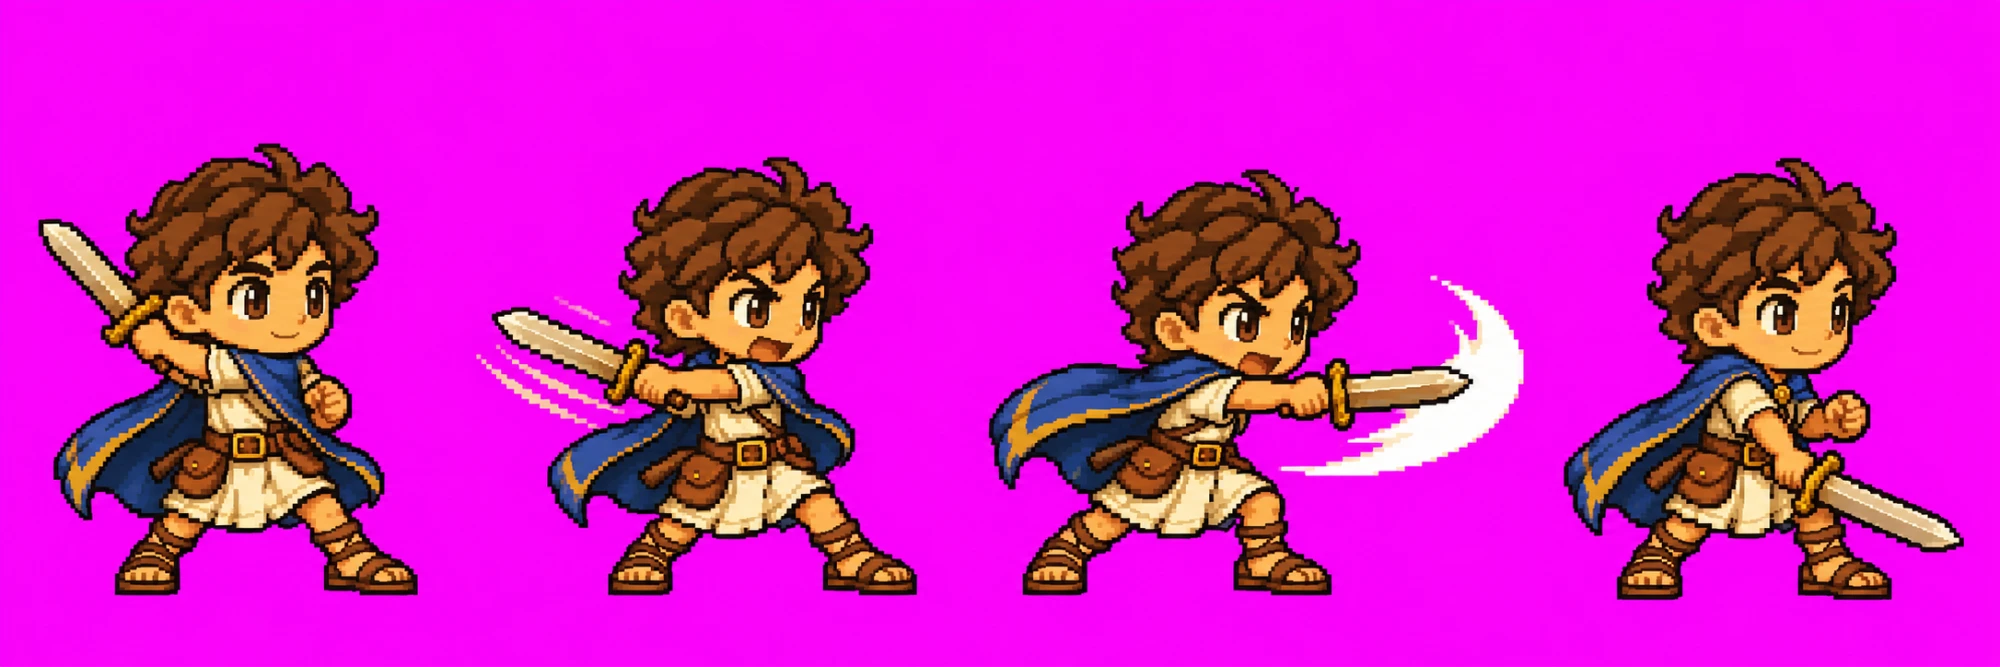
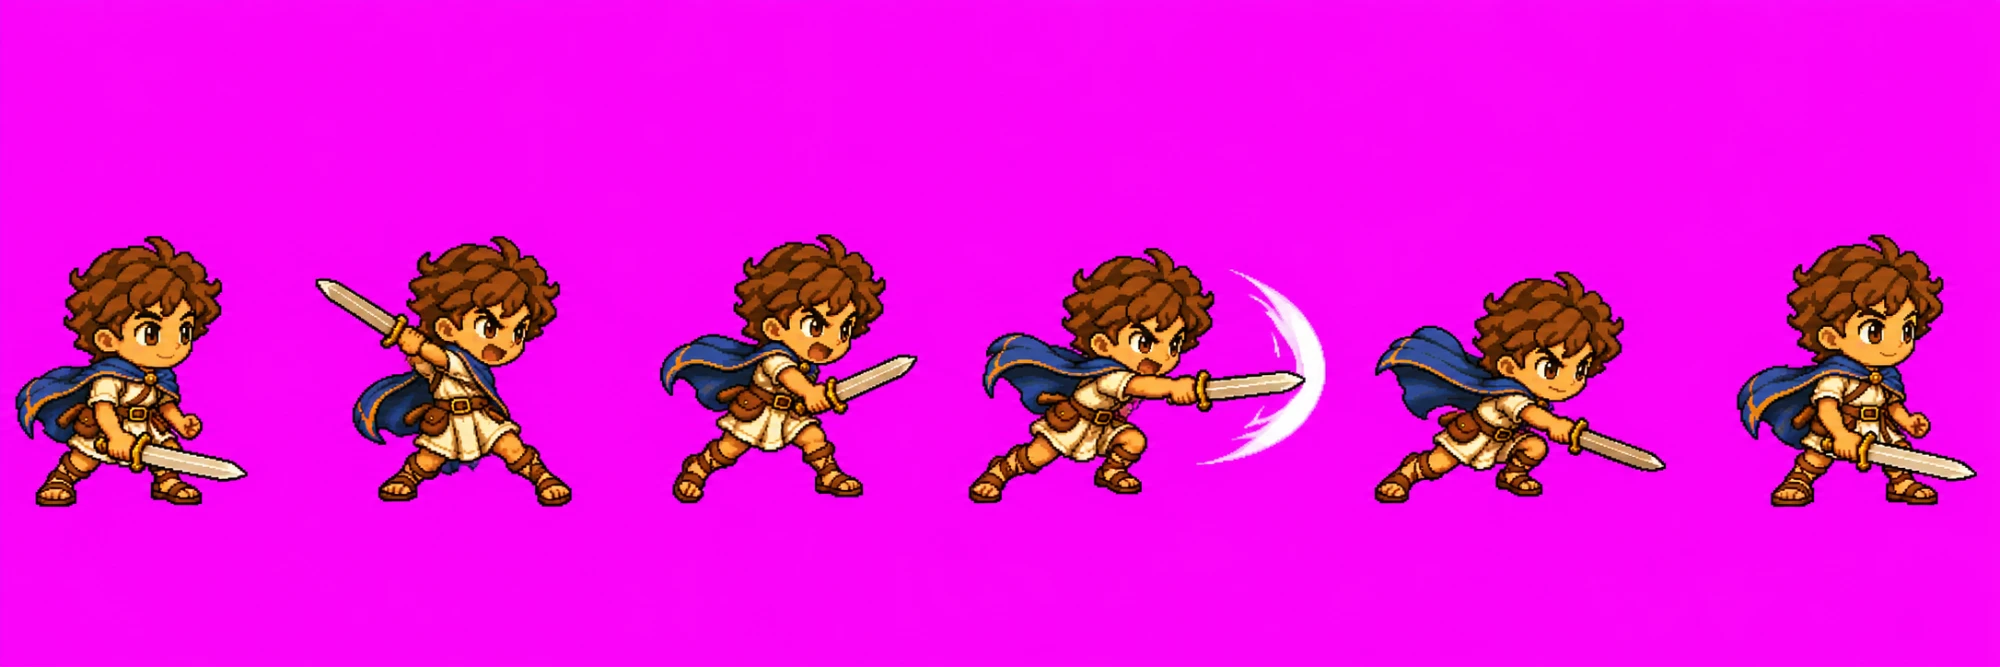
Hero: 6-frame sword slash with anticipation and follow-through
Replaces the 4-frame slash strip with a new AI-drafted 6-frame strip
(ready, anticipation, swing, impact, follow-through, recovery); needs a
human art review. The anticipation frame is held and the swing is quick.
swing/impact events move to 260/320 ms. punch now uses the new swing
frame.

diff --git a/src/core/anim/heroClips.ts b/src/core/anim/heroClips.ts
@@ -34,7 +34,7 @@ export const HERO_CLIPS = {
   ),
   punch: frameClip(
     'punch',
-    [f('slash_0', 110), f('slash_1', 80), f('thrust', 150), f('idle_0', 80)],
+    [f('slash_0', 110), f('slash_2', 80), f('thrust', 150), f('idle_0', 80)],
     {
       events: [
         { at: 110, name: 'swing' },
@@ -42,13 +42,21 @@ export const HERO_CLIPS = {
       ],
     },
   ),
+  // Ready, anticipation (held), swing (fast), impact, follow-through, recovery.
   slash: frameClip(
     'slash',
-    [f('slash_0', 140), f('slash_1', 90), f('slash_2', 170), f('slash_3', 140)],
+    [
+      f('slash_0', 80),
+      f('slash_1', 180),
+      f('slash_2', 60),
+      f('slash_3', 140),
+      f('slash_4', 110),
+      f('slash_5', 120),
+    ],
     {
       events: [
-        { at: 140, name: 'swing' },
-        { at: 230, name: 'impact' },
+        { at: 260, name: 'swing' },
+        { at: 320, name: 'impact' },
       ],
     },
   ),

diff --git a/src/core/anim/heroSheet.ts b/src/core/anim/heroSheet.ts
@@ -2,9 +2,9 @@
 
 /** Hero sprite sheet layout: equal cells, row-major, feet of every frame at (originX, originY). */
 export const HERO_SHEET = {
-  frameWidth: 98,
+  frameWidth: 136,
   frameHeight: 93,
-  originX: 49,
+  originX: 68,
   originY: 92,
   /** Height of the standing hero in native pixels. */
   standingHeight: 64,
@@ -25,16 +25,18 @@ export const HERO_FRAMES = {
   slash_1: 11,
   slash_2: 12,
   slash_3: 13,
-  power_0: 14,
-  power_1: 15,
-  power_2: 16,
-  power_3: 17,
-  power_4: 18,
-  power_5: 19,
-  walk: 20,
-  thrust: 21,
-  hurt: 22,
-  victory: 23,
+  slash_4: 14,
+  slash_5: 15,
+  power_0: 16,
+  power_1: 17,
+  power_2: 18,
+  power_3: 19,
+  power_4: 20,
+  power_5: 21,
+  walk: 22,
+  thrust: 23,
+  hurt: 24,
+  victory: 25,
 } as const;
 
 export type HeroFrame = keyof typeof HERO_FRAMES;

diff --git a/scripts/art/process_hero.py b/scripts/art/process_hero.py
@@ -52,7 +52,11 @@ class Strip:
 STRIPS = [
     Strip('idle.webp', ['idle_0', 'idle_1', 'idle_2', 'idle_3'], 1.0),
     Strip('run.webp', ['run_0', 'run_1', 'run_2', 'run_3', 'run_4', 'run_5'], 0.77),
-    Strip('slash.webp', ['slash_0', 'slash_1', 'slash_2', 'slash_3'], 0.90),
+    Strip(
+        'slash.webp',
+        ['slash_0', 'slash_1', 'slash_2', 'slash_3', 'slash_4', 'slash_5'],
+        0.51,
+    ),
     Strip(
         'slash-powered.webp',
         ['power_0', 'power_1', 'power_2', 'power_3', 'power_4', 'power_5'],

diff --git a/art/README.md b/art/README.md
@@ -4,13 +4,13 @@
 right, facing right, on a flat magenta (#FF00FF) background. They are AI-drafted source art;
 the game only uses the processed sheet.
 
-| File                 | Frames                                                 |
-| -------------------- | ------------------------------------------------------ |
-| `idle.webp`          | `idle_0`–`idle_3` (breathing loop)                     |
-| `run.webp`           | `run_0`–`run_5`                                        |
-| `slash.webp`         | `slash_0`–`slash_3` (wind-up, swing, impact, recovery) |
-| `slash-powered.webp` | `power_0`–`power_5` (crouch, leap, overhead, strike…)  |
-| `poses.webp`         | (unused idle), `walk`, `thrust`, `hurt`, `victory`     |
+| File                 | Frames                                                                             |
+| -------------------- | ---------------------------------------------------------------------------------- |
+| `idle.webp`          | `idle_0`–`idle_3` (breathing loop)                                                 |
+| `run.webp`           | `run_0`–`run_5`                                                                    |
+| `slash.webp`         | `slash_0`–`slash_5` (ready, anticipation, swing, impact, follow-through, recovery) |
+| `slash-powered.webp` | `power_0`–`power_5` (crouch, leap, overhead, strike…)                              |
+| `poses.webp`         | (unused idle), `walk`, `thrust`, `hurt`, `victory`                                 |
 
 ## Adding or replacing a strip
 
